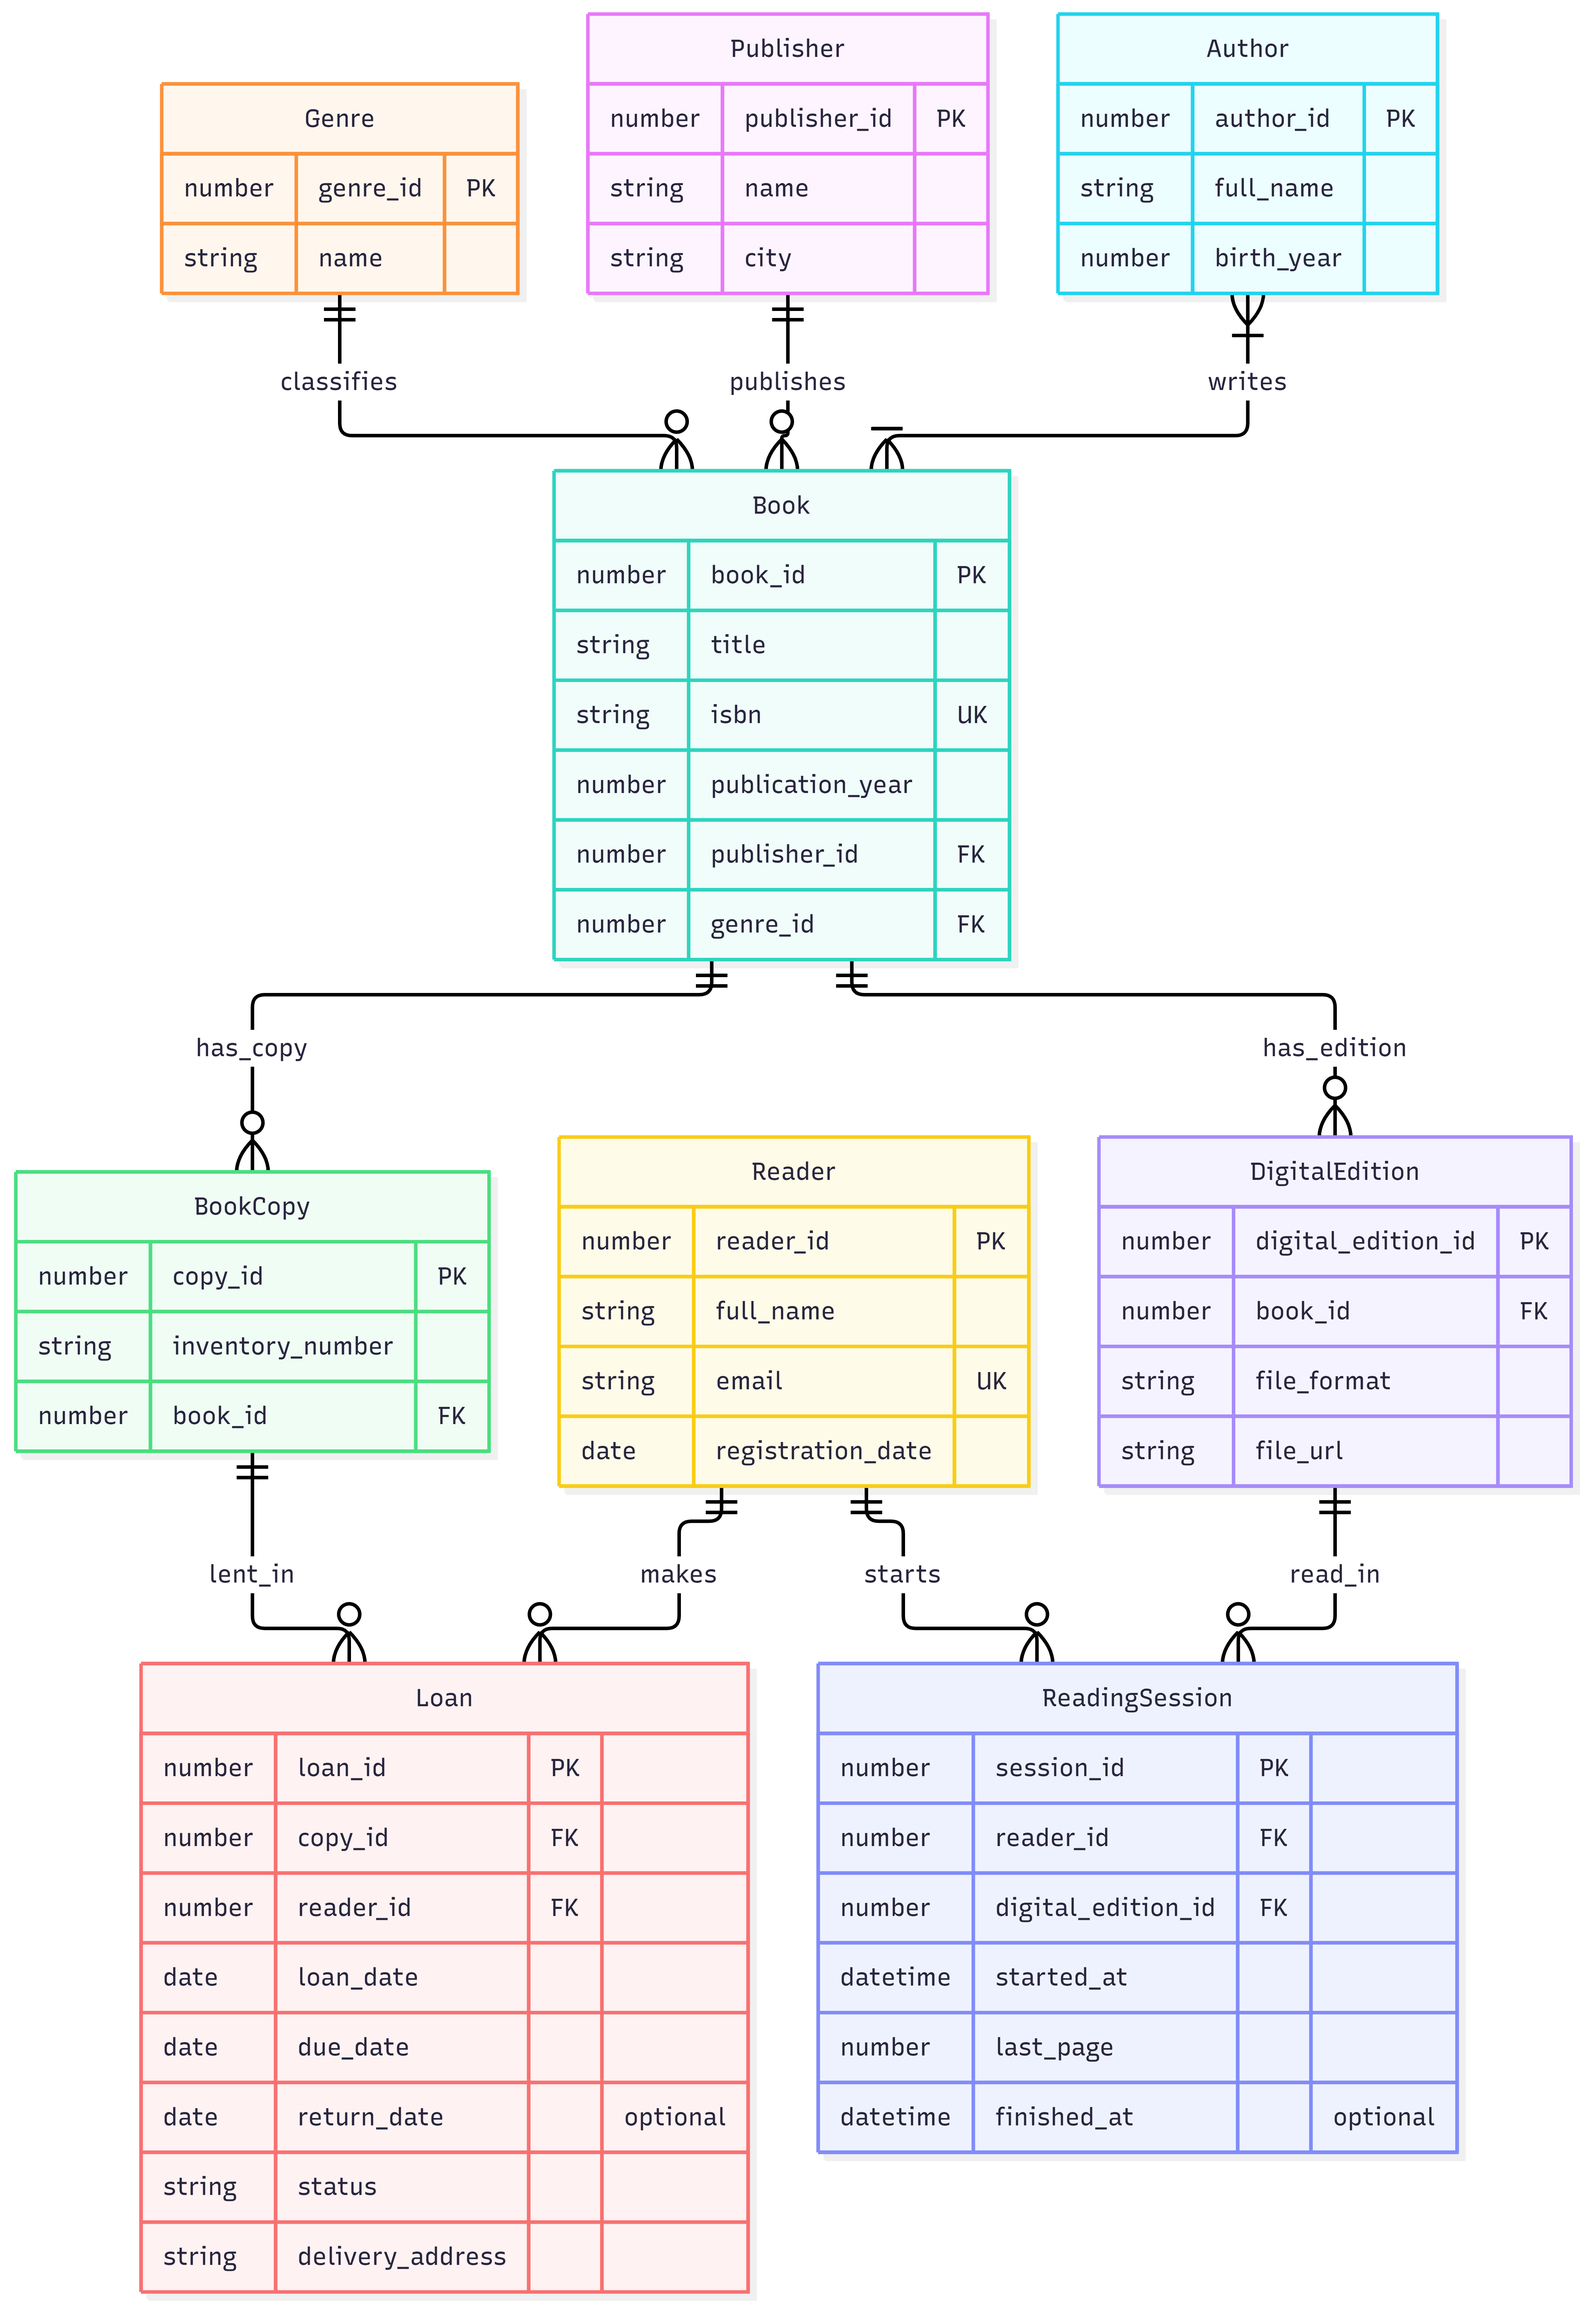
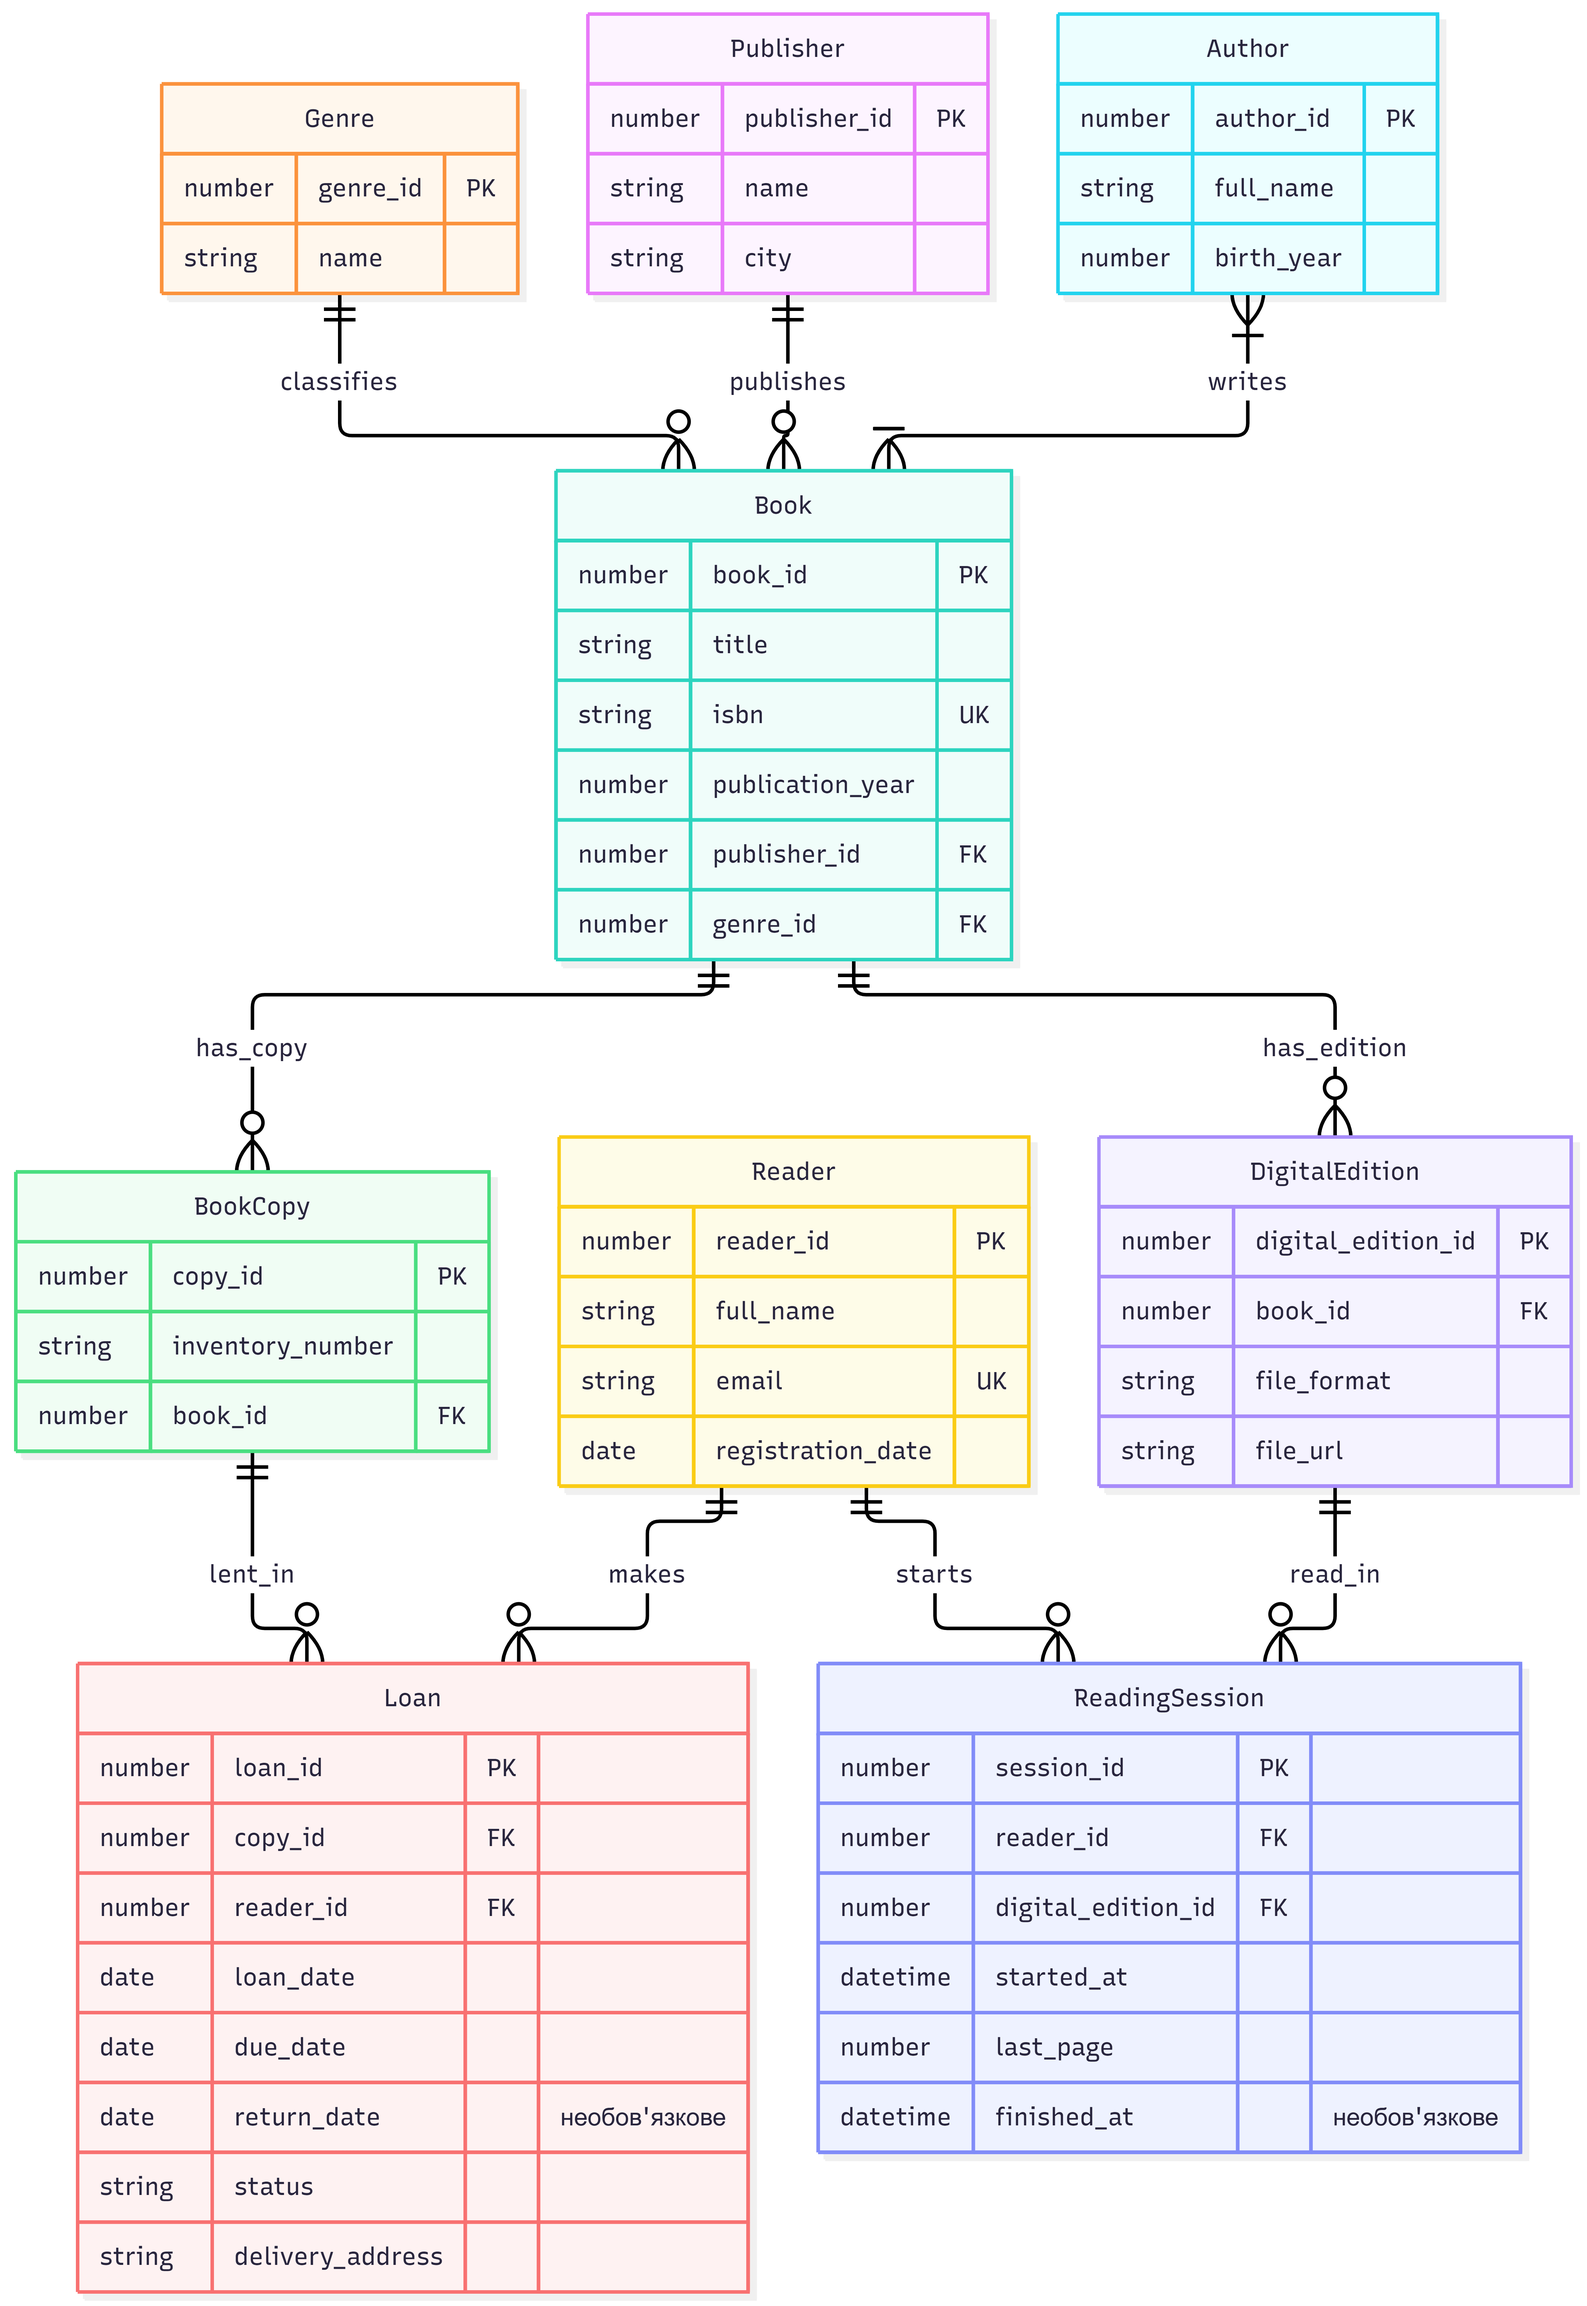
fix bugs

diff --git a/lab 1/prompts/er-model.md b/lab 1/prompts/er-model.md
@@ -6,12 +6,13 @@
 - Використовуй лише сутності, атрибути, зв'язки, мітки зв'язків і кардинальності зі `spec.md`. Нічого не вигадуй і не перейменовуй.
 - Назви сутностей і полів дослівно як у spec (snake_case для полів, без синонімів).
 - Типи атрибутів як у spec (number, string, date, datetime). Не використовуй SQL-типи.
-- Познач PK і FK. FK став лише на стороні «багато» зв'язків «один-до-багатьох».
+- Познач PK, FK і UK. FK став лише на стороні «багато» зв'язків «один-до-багатьох».
+- UK став лише на полях, названих у критерії 9 зі spec.
 - Для зв'язку «багато-до-багатьох» Author — Book не створюй сполучну таблицю й не став FK.
 - Мітки зв'язків і кардинальності бери зі `spec.md` дослівно: `1 — 0..*` це `||--o{`, `1..* — 1..*` це `}|--|{`.
-- Необов'язкові поля (return_date, finished_at) познач коментарем `"optional"`.
+- Необов'язкові поля (return_date, finished_at) познач коментарем `"необов'язкове"`.
 - Не додавай сутностей, атрибутів і зв'язків, яких немає в spec.
-- Не додавай фізичну схему БД (SQL DDL, індекси, обмеження).
+- Не додавай фізичну схему БД (SQL DDL, індекси).
 - Виведи лише код Mermaid, без пояснень.
 
 Результат збережи в `er-model.mmd`.
